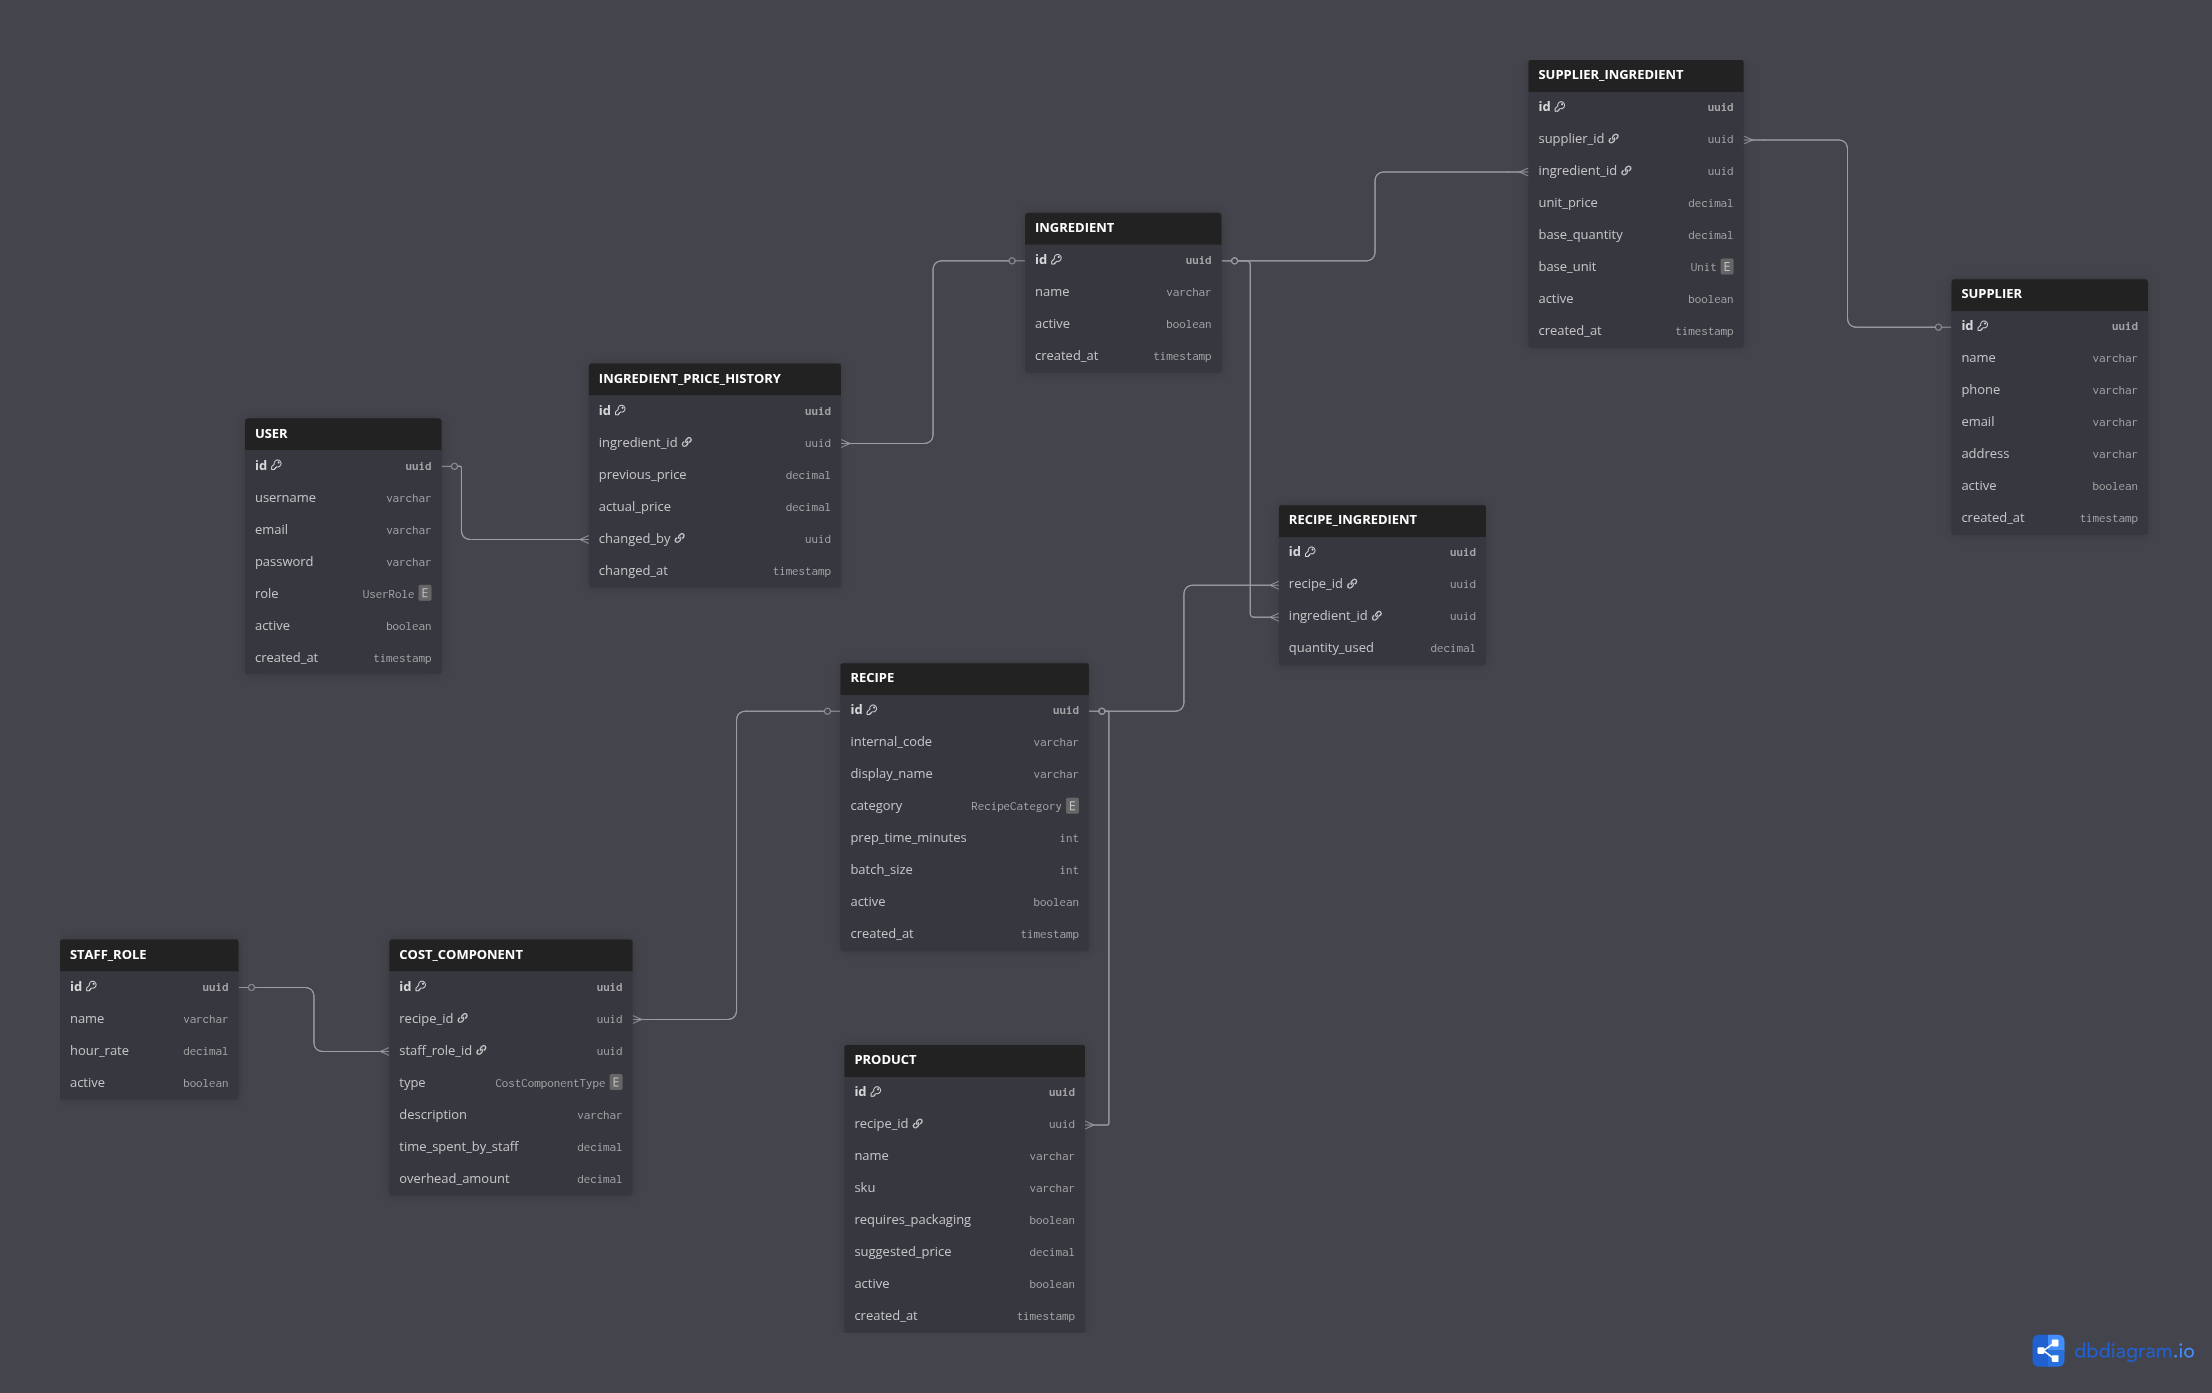
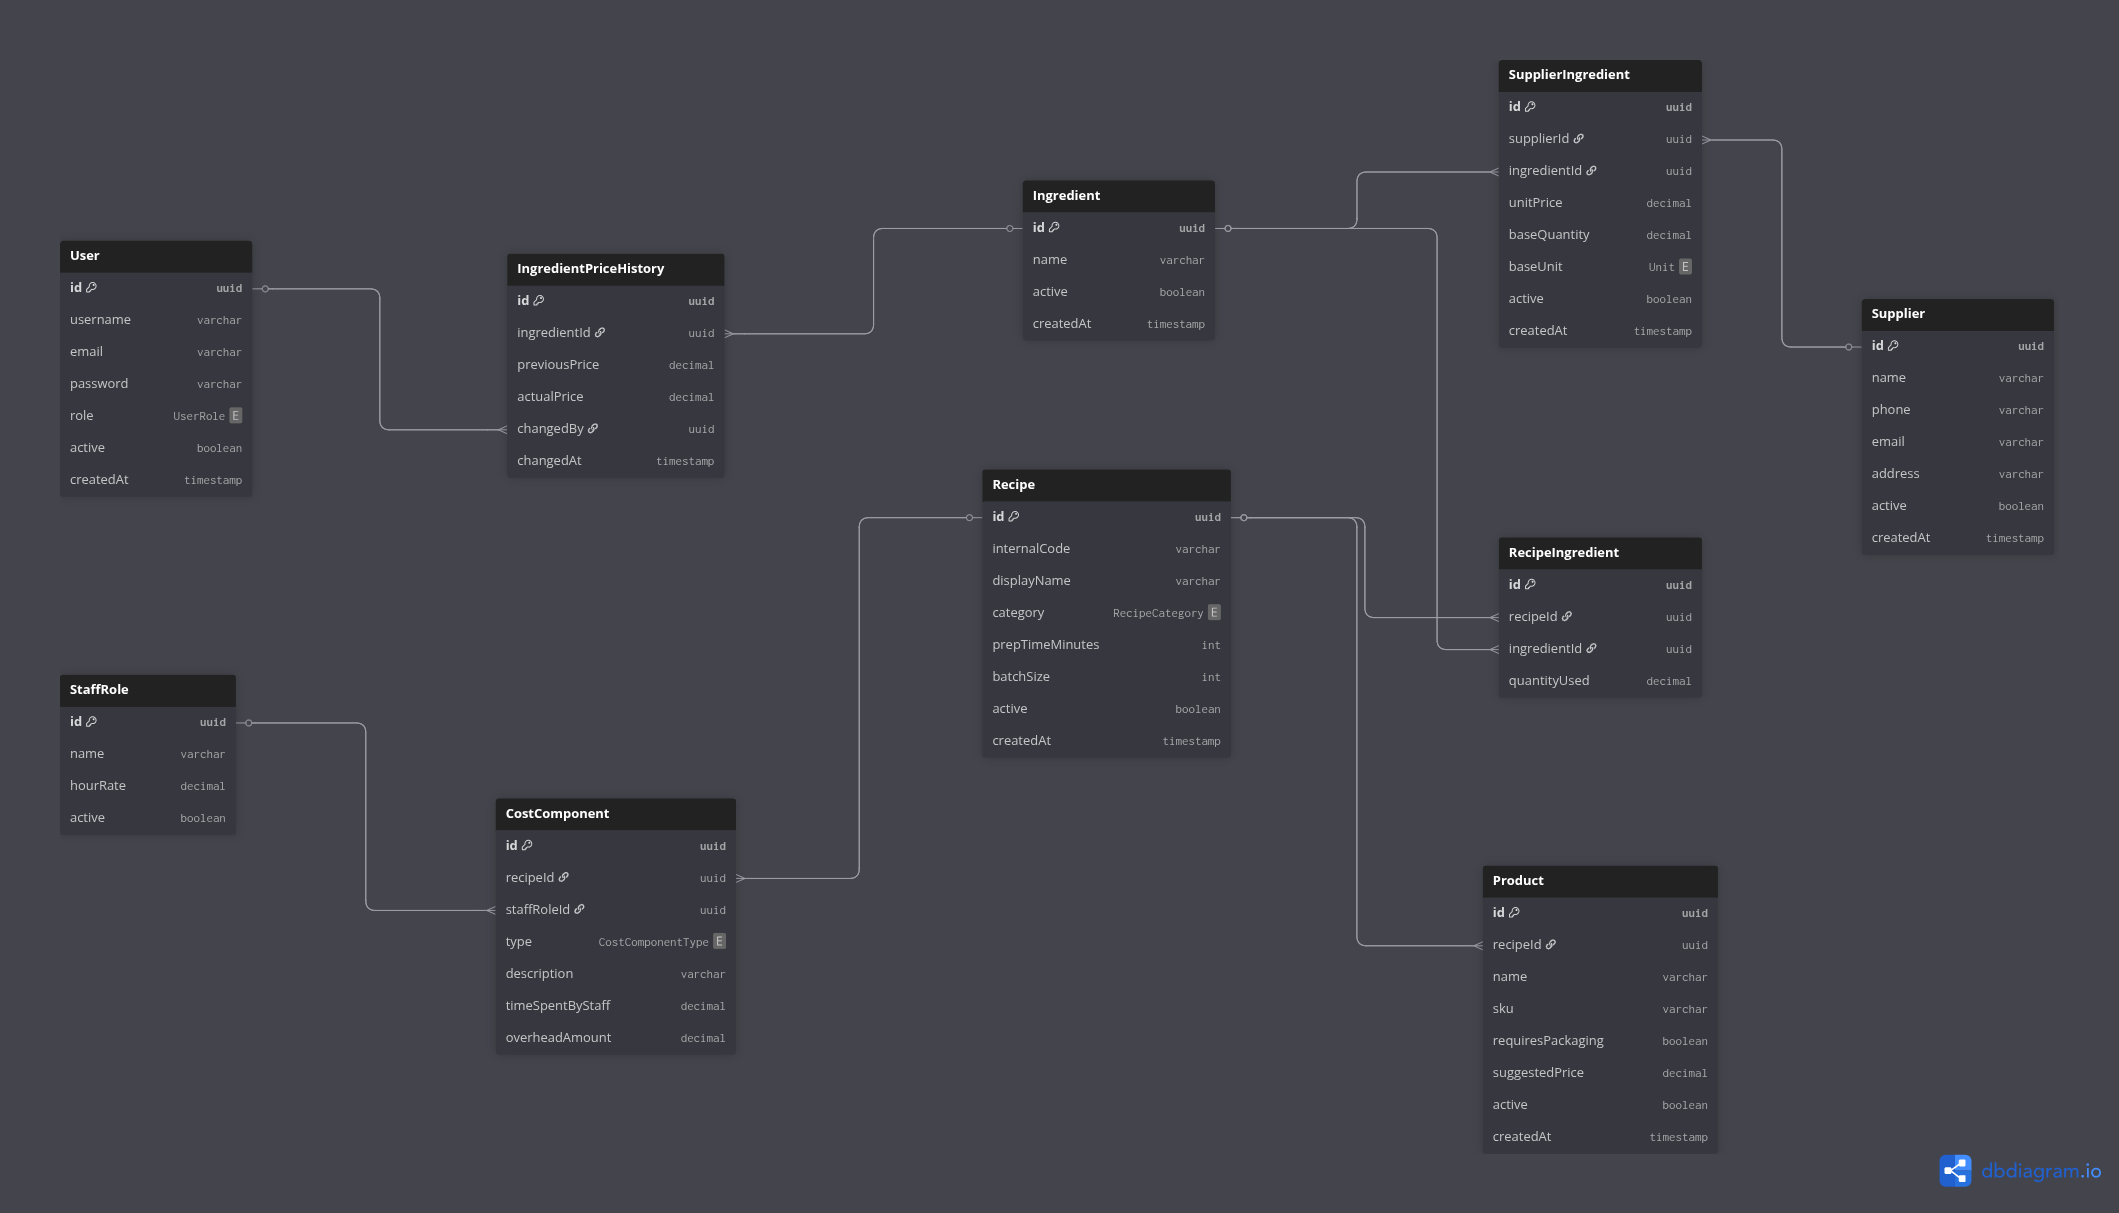
Lukin gud

diff --git a/src/main/java/com/charlytech/cafemanager/entities/UserEntity.java b/src/main/java/com/charlytech/cafemanager/entities/UserEntity.java
@@ -1,0 +1,34 @@
+package com.charlytech.cafemanager.entities;
+
+
+import jakarta.persistence.Entity;
+import jakarta.persistence.OneToMany;
+import lombok.Data;
+
+import java.util.ArrayList;
+import java.util.Date;
+import java.util.List;
+
+@Data
+@Entity
+public class UserEntity extends BaseEntity {
+
+    enum Role {
+        ADMIN,
+        MANAGER,
+        BAKER,
+        VENDOR
+    }
+    // Attributes
+    private String username;
+    private String email;
+    private String password;
+    private Role role;
+    private boolean active;
+    private Date createdAt;
+
+    // Relationships
+    @OneToMany(mappedBy = "user")
+    private List<IngredientPriceHistoryEntity> ingredientPrices = new ArrayList<>();
+
+}

diff --git a/src/main/java/com/charlytech/cafemanager/entities/IngredientEntity.java b/src/main/java/com/charlytech/cafemanager/entities/IngredientEntity.java
@@ -1,0 +1,18 @@
+package com.charlytech.cafemanager.entities;
+
+
+import jakarta.persistence.Entity;
+import jakarta.persistence.OneToMany;
+import lombok.Data;
+
+import java.util.ArrayList;
+import java.util.List;
+
+@Data
+@Entity
+public class IngredientEntity extends BaseEntity {
+
+    @OneToMany(mappedBy = "ingredient")
+    private List<IngredientPriceHistoryEntity> ingredientPriceHistory =  new ArrayList<>();
+
+}

diff --git a/src/main/java/com/charlytech/cafemanager/entities/IngredientPriceHistoryEntity.java b/src/main/java/com/charlytech/cafemanager/entities/IngredientPriceHistoryEntity.java
@@ -1,0 +1,21 @@
+package com.charlytech.cafemanager.entities;
+
+import jakarta.persistence.Entity;
+import jakarta.persistence.ManyToOne;
+import lombok.Data;
+
+import java.util.Date;
+
+@Data
+@Entity
+public class IngredientPriceHistoryEntity extends BaseEntity {
+
+    private double previousPrice;
+    private double actualPrice;
+    private Date changedAt;
+
+
+
+    @ManyToOne
+    private UserEntity userEntity;
+}

diff --git a/src/main/java/com/charlytech/cafemanager/entities/BaseEntity.java b/src/main/java/com/charlytech/cafemanager/entities/BaseEntity.java
@@ -9,7 +9,6 @@ import lombok.Data;
 @Data
 @MappedSuperclass
 public class BaseEntity {
-
     @Id
     @GeneratedValue(strategy = GenerationType.IDENTITY)
     private Long id;
